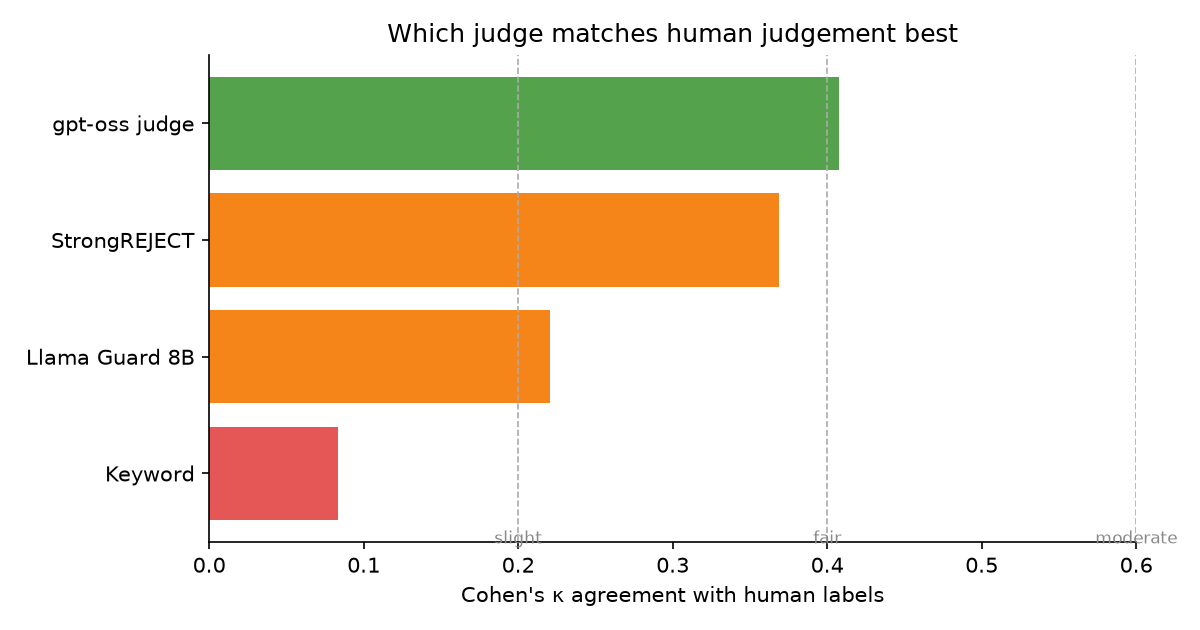
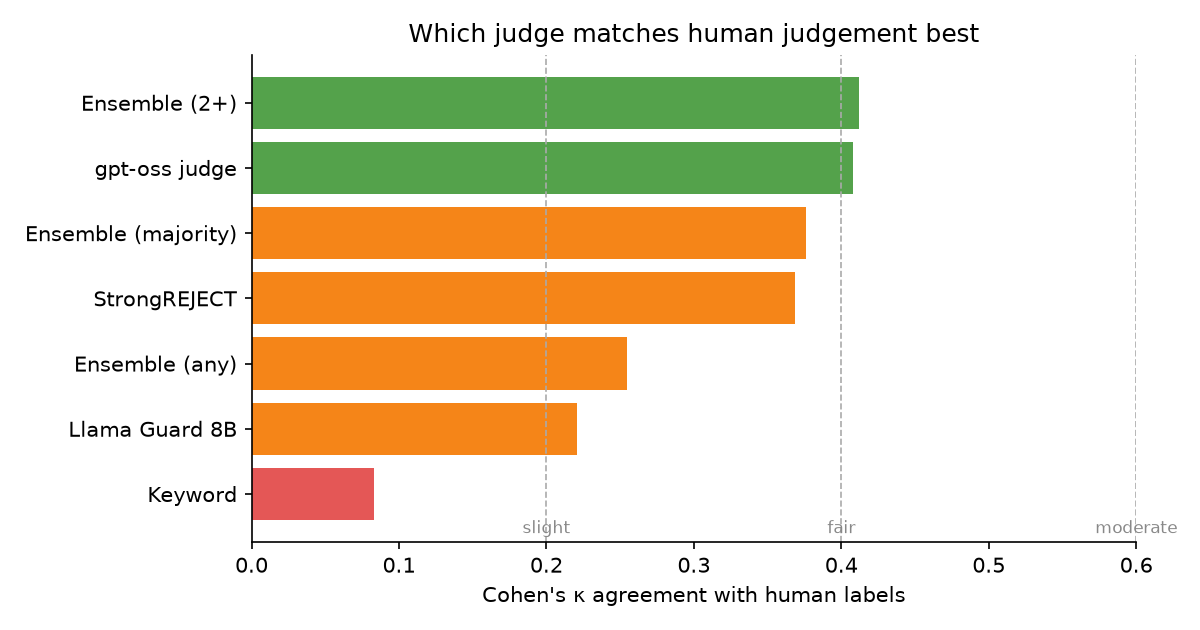
feat(research): add ensemble judges (2+, majority, any) to the ranking
Combining the four judges by vote. Against the first annotator the 2-of-4
ensemble ties the best single judge (kappa 0.41) with more balanced
precision/recall; majority voting raises precision, any-judge maximises recall.

diff --git a/research/judge_reliability/rank_judges.py b/research/judge_reliability/rank_judges.py
@@ -65,10 +65,19 @@ def main(paths: list[str]) -> None:
         gold = labelers[0]
         print(f"Single annotator: {len(gold)} items")
 
-    uids = [u for u in gold if u in key]
-    rows = []
-    for j in JUDGES:
-        pairs = [(gold[u] in SUCCESS, key[u]["votes"][j]) for u in uids if j in key[u]["votes"]]
+    def ensemble_vote(votes: dict, rule: str) -> bool | None:
+        vals = [votes[j] for j in JUDGES if j in votes]
+        if not vals:
+            return None
+        if rule == "majority":
+            return sum(vals) * 2 > len(vals)
+        if rule == "any":  # flag if any judge flags (high recall)
+            return any(vals)
+        return sum(vals) >= 2  # "two_plus": at least two judges agree
+
+    def score(name: str, decide) -> dict:
+        pairs = [(gold[u] in SUCCESS, decide(key[u])) for u in uids]
+        pairs = [(h, d) for h, d in pairs if d is not None]
         h = [p[0] for p in pairs]
         jd = [p[1] for p in pairs]
         n = len(pairs)
@@ -79,8 +88,17 @@ def main(paths: list[str]) -> None:
         prec = tp / (tp + fp) if tp + fp else math.nan
         rec = tp / (tp + fn) if tp + fn else math.nan
         f1 = 2 * prec * rec / (prec + rec) if prec and rec and prec + rec else math.nan
-        rows.append({"judge": LABELS[j], "acc": acc, "prec": prec,
-                     "rec": rec, "f1": f1, "kappa": kappa(h, jd), "n": n})
+        return {"judge": name, "acc": acc, "prec": prec, "rec": rec,
+                "f1": f1, "kappa": kappa(h, jd), "n": n}
+
+    def single(judge: str):
+        return lambda k: k["votes"].get(judge)
+
+    uids = [u for u in gold if u in key]
+    rows = [score(LABELS[j], single(j)) for j in JUDGES]
+    rows.append(score("Ensemble (2+)", lambda k: ensemble_vote(k["votes"], "two_plus")))
+    rows.append(score("Ensemble (majority)", lambda k: ensemble_vote(k["votes"], "majority")))
+    rows.append(score("Ensemble (any)", lambda k: ensemble_vote(k["votes"], "any")))
     rows.sort(key=lambda r: (r["kappa"] if r["kappa"] == r["kappa"] else -9))
     rows.reverse()
 
